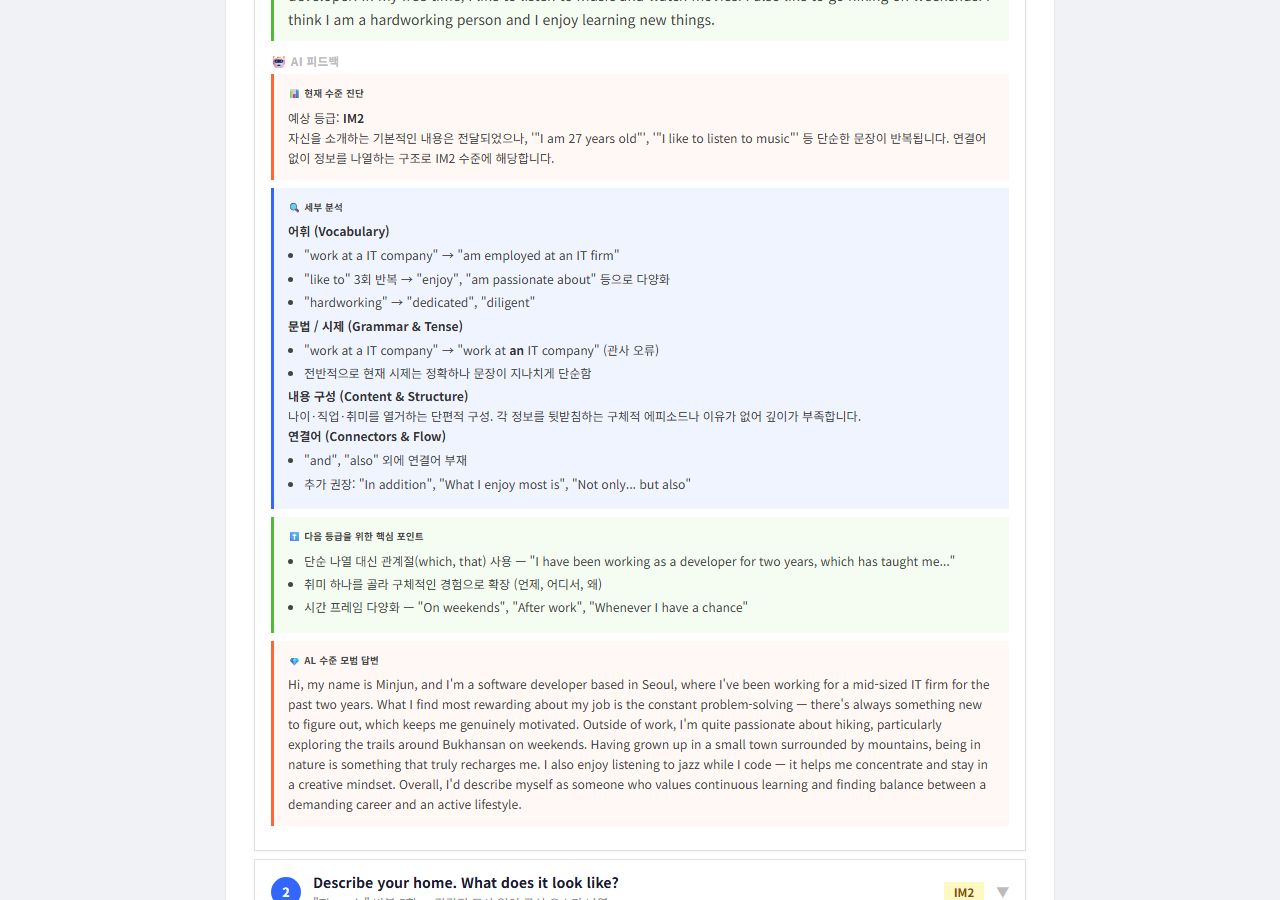
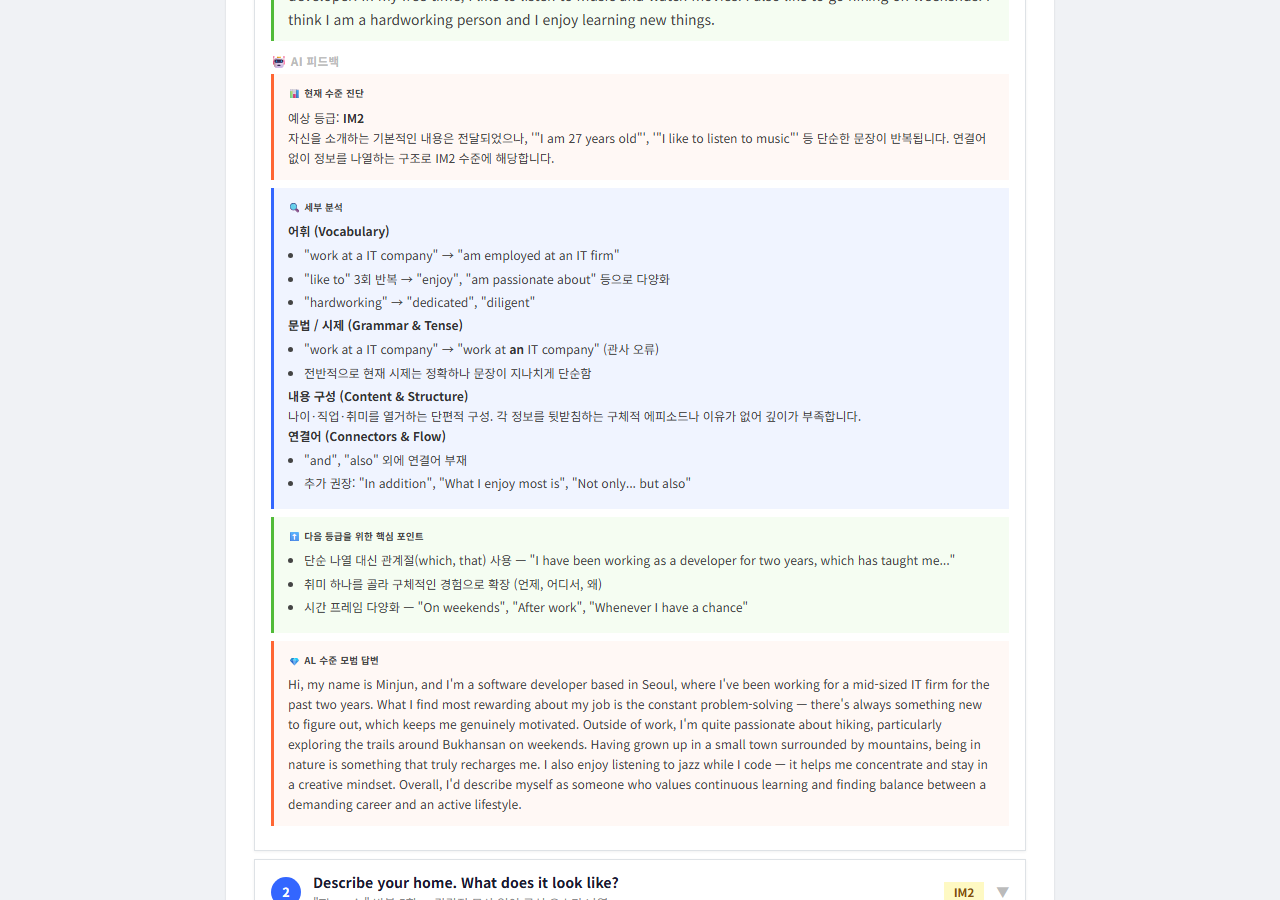
refactor: result 페이지를 Diagnostic Form 중심으로 재구성
- 종합평가/강점/개선점/다음등급 섹션 제거 — Diagnostic Form이 메인 결과
- ADV5: fluency_checks/pronunciation_checks 제거 (STT 기반 평가 불가)
  → Grammar + Pragmatic Competence만 유지
  → "requires audio analysis — not evaluated" 노트 표시
- INT4: rate_of_speech/reduce_pauses/pronunciation 제거
  → dead_ending/false_starts/repetition 유지 (텍스트 탐지 가능)
- tts_server.py: 불가 항목 프롬프트·JSON 템플릿에서 삭제
- result.css: 삭제된 섹션 스타일 제거, .diag-na-note 추가
- 스크린샷 재촬영 (result-top/diagnostic/feedback)

diff --git a/assets/css/result.css b/assets/css/result.css
@@ -99,47 +99,6 @@ body {
   border-bottom: 2px solid var(--color-border-light);
 }
 
-/* ── 강점/개선점 ── */
-.list-grid {
-  display: grid;
-  grid-template-columns: 1fr 1fr;
-  gap: var(--space-4);
-}
-.list-box {
-  background: var(--color-bg);
-  padding: var(--space-4);
-  border-left: 3px solid var(--color-border);
-}
-.list-box h4 {
-  font-size: .78em;
-  font-weight: 700;
-  text-transform: uppercase;
-  letter-spacing: .4px;
-  margin-bottom: 10px;
-}
-.list-box.green { border-left-color: var(--color-success); }
-.list-box.green h4 { color: var(--color-success-dark); }
-.list-box.orange { border-left-color: var(--color-primary); }
-.list-box.orange h4 { color: var(--color-primary-dark); }
-.list-item {
-  font-size: .88em;
-  color: var(--color-text);
-  line-height: 1.6;
-  padding: 6px 0;
-  border-bottom: 1px solid var(--color-border-light);
-}
-.list-item:last-child { border-bottom: none; }
-
-/* ── 다음 등급 ── */
-.next-box {
-  background: var(--color-secondary-light);
-  border-left: 4px solid var(--color-secondary);
-  padding: 16px var(--space-5);
-  font-size: .9em;
-  color: var(--color-text);
-  line-height: 1.7;
-}
-
 /* ── 문항 아코디언 ── */
 .q-accordion { display: flex; flex-direction: column; gap: 8px; }
 .q-item {
@@ -342,9 +301,20 @@ body {
 }
 .dgl:first-child { margin-top: 0; }
 
-/* category label (Fluency:, Grammar: etc.) — orange accent */
+/* category label (Grammar:, Fluency: etc.) — orange accent */
 .dgl.dcat {
   color: var(--color-primary-dark);
+}
+
+/* "not evaluated" note */
+.dgl.diag-na-note {
+  color: var(--color-text-muted);
+  font-style: italic;
+  font-weight: 400;
+  margin-top: 6px;
+}
+.dgl.diag-na-note span {
+  font-size: .9em;
 }
 
 /* checkbox item — row layout (inline wrap) */

diff --git a/pages/result.html b/pages/result.html
@@ -158,12 +158,6 @@
               <td class="diag-func">Can be readily understood by speakers not accustomed to non-native speakers of the target language.</td>
               <td class="diag-perf"><span :class="['perf-badge',perfClass(dPerf('adv5'))]">{{ dPerf('adv5') }}</span></td>
               <td class="diag-detail">
-                <div class="dgl dcat">Speaker needs to improve: Fluency:</div>
-                <div class="drc">
-                  <span :class="['dc',{checked:dHas('adv5','fluency_checks','rate_of_speech')}]">Rate of speech</span>
-                  <span :class="['dc',{checked:dHas('adv5','fluency_checks','fluidity')}]">Fluidity (halting)</span>
-                  <span :class="['dc',{checked:dHas('adv5','fluency_checks','connectedness')}]">Connectedness</span>
-                </div>
                 <div class="dgl dcat">Grammar:</div>
                 <div class="drc">
                   <span :class="['dc',{checked:dHas('adv5','grammar_checks','word_structure')}]">Word Structure</span>
@@ -176,13 +170,7 @@
                 <div class="drc">
                   <span :class="['dc',{checked:dHas('adv5','pragmatic_checks','lacks_strategies')}]">Lacks strategies to compensate for weaknesses</span>
                 </div>
-                <div class="dgl dcat">Pronunciation:</div>
-                <div class="drc">
-                  <span :class="['dc',{checked:dHas('adv5','pronunciation_checks','articulation')}]">Articulation</span>
-                  <span :class="['dc',{checked:dHas('adv5','pronunciation_checks','pitch')}]">Pitch</span>
-                  <span :class="['dc',{checked:dHas('adv5','pronunciation_checks','stress')}]">Stress</span>
-                  <span :class="['dc',{checked:dHas('adv5','pronunciation_checks','intonation')}]">Intonation</span>
-                </div>
+                <div class="dgl diag-na-note">Fluency / Pronunciation: <span>requires audio analysis — not evaluated</span></div>
               </td>
             </tr>
           </tbody>
@@ -243,22 +231,12 @@
               <td class="diag-perf"><span :class="['perf-badge',perfClass(dPerf('int4'))]">{{ dPerf('int4') }}</span></td>
               <td class="diag-detail">
                 <div class="dgl dcat">Speaker needs to improve: Fluency:</div>
-                <div class="drc">
-                  <span :class="['dc',{checked:dHas('int4','fluency_checks','rate_of_speech')}]">Rate of speech</span>
-                  <span :class="['dc',{checked:dHas('int4','fluency_checks','reduce_pauses')}]">Fluidity (reduce pauses)</span>
-                </div>
                 <div class="dcc">
                   <span :class="['dc',{checked:dHas('int4','fluency_checks','dead_ending')}]">Reduce "dead ending" (incomplete statements)</span>
                   <span :class="['dc',{checked:dHas('int4','fluency_checks','false_starts')}]">Reduce false-starts</span>
                   <span :class="['dc',{checked:dHas('int4','fluency_checks','repetition')}]">Reduce repetition</span>
                 </div>
-                <div class="dgl">Improve pronunciation:</div>
-                <div class="drc">
-                  <span :class="['dc',{checked:dHas('int4','pronunciation_checks','articulation')}]">Articulation</span>
-                  <span :class="['dc',{checked:dHas('int4','pronunciation_checks','pitch')}]">Pitch</span>
-                  <span :class="['dc',{checked:dHas('int4','pronunciation_checks','stress')}]">Stress features</span>
-                  <span :class="['dc',{checked:dHas('int4','pronunciation_checks','intonation')}]">Intonation</span>
-                </div>
+                <div class="dgl diag-na-note">Rate of speech / Pronunciation: <span>requires audio analysis — not evaluated</span></div>
                 <div class="dgl">Grammar:</div>
                 <div class="dcc">
                   <span :class="['dc',{checked:dHas('int4','grammar_checks','control_simple_grammar')}]">Needs control of simple sentence level grammar</span>
@@ -272,33 +250,6 @@
             </tr>
           </tbody>
         </table>
-      </div>
-
-      <!-- ── 총평 ── -->
-      <div class="section">
-        <div class="section-title">📊 종합 평가</div>
-        <p style="font-size:.92em;color:#333;line-height:1.75">{{ overall.overallSummary }}</p>
-      </div>
-
-      <!-- ── 강점 / 개선점 ── -->
-      <div class="section">
-        <div class="section-title">📌 세부 분석</div>
-        <div class="list-grid">
-          <div class="list-box green">
-            <h4>✅ 강점</h4>
-            <div class="list-item" v-for="(s, i) in overall.strengths" :key="i">{{ s }}</div>
-          </div>
-          <div class="list-box orange">
-            <h4>⚠️ 개선점</h4>
-            <div class="list-item" v-for="(s, i) in overall.improvements" :key="i">{{ s }}</div>
-          </div>
-        </div>
-      </div>
-
-      <!-- ── 다음 등급 ── -->
-      <div class="section">
-        <div class="section-title">⬆️ 다음 등급을 향해</div>
-        <div class="next-box">{{ overall.nextLevelAdvice }}</div>
       </div>
 
       <!-- ── 문항별 결과 ── -->

diff --git a/make_sample.py b/make_sample.py
@@ -83,10 +83,8 @@ OVERALL = {
     },
     "adv5": {
       "performance": "Developing Ability",
-      "fluency_checks": ["rate_of_speech", "fluidity"],
       "grammar_checks": ["agreement"],
-      "pragmatic_checks": ["lacks_strategies"],
-      "pronunciation_checks": ["stress", "intonation"]
+      "pragmatic_checks": ["lacks_strategies"]
     },
     "int1": {"performance": "Meets Criteria Fully", "needs": []},
     "int2": {"performance": "Meets Criteria Fully", "needs": []},
@@ -94,7 +92,6 @@ OVERALL = {
     "int4": {
       "performance": "Meets Criteria Fully",
       "fluency_checks": [],
-      "pronunciation_checks": [],
       "grammar_checks": [],
       "syntax_checks": []
     }